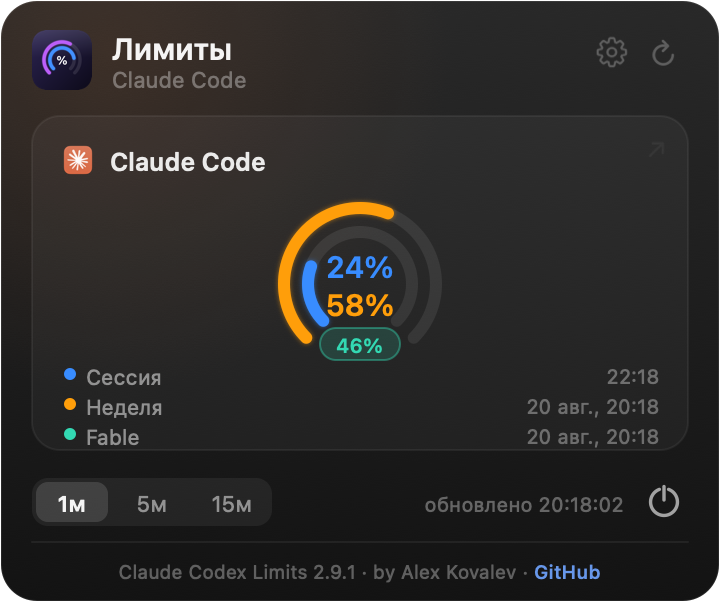
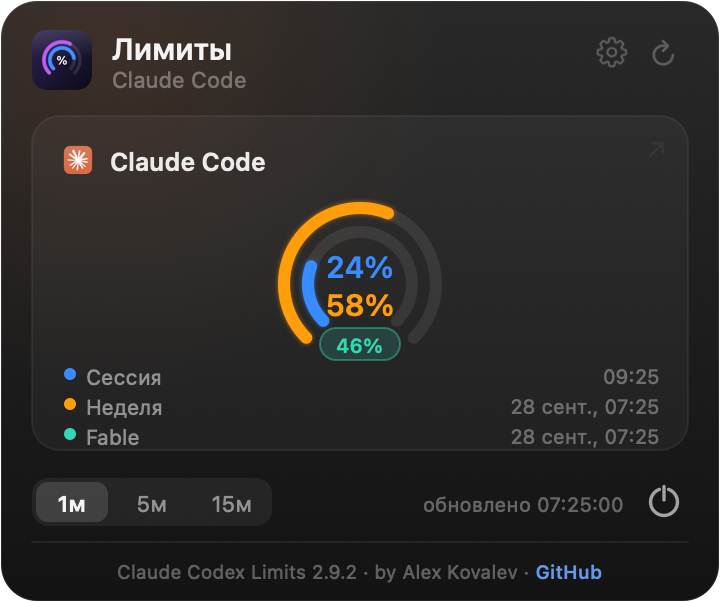
v2.9.2 — resize the open panel when refreshed data changes its height
The panel was sized once, in show(), for the data present at click time —
and opening it triggers a refresh. When that refresh added or dropped the
per-model row (cards ±15pt) update() only redrew, so the taller content ran
past the window's bottom edge and the footer line got clipped. update() now
compares the needed height with the frame and calls resizeToContent().

diff --git a/Sources/LimitsMonitor.swift b/Sources/LimitsMonitor.swift
@@ -889,7 +889,7 @@ func panelMainHeight(_ claude: LimitData, _ codex: LimitData) -> CGFloat {
     PANEL_H + scopedRowExtra(claude, codex)
 }
 enum PanelMode { case main, settings, whatsnew, claudeFix }
-let APP_VERSION = "2.9.1"
+let APP_VERSION = "2.9.2"
 let APP_AUTHOR = "Alex Kovalev"
 let REPO_URL = "https://github.com/ArrivaRUS/claude-codex-limits"
 let CLAUDE_INSTALL_CMD = "curl -fsSL https://claude.ai/install.sh | bash"
@@ -2001,7 +2001,16 @@ final class PanelController {
 
     func update(claude: LimitData, codex: LimitData, interval: TimeInterval, updated: Date?) {
         view.claude = claude; view.codex = codex; view.interval = interval; view.updated = updated
-        if panel.isVisible { view.needsDisplay = true }
+        guard panel.isVisible else { return }
+        // Opening the panel triggers a refresh, and that refresh can add or drop the per-model
+        // row — i.e. change the height the content needs. The frame was sized for the data at
+        // click time, so without this the taller layout draws past the bottom edge and the
+        // footer line gets clipped. Resize whenever the needed height no longer matches.
+        if view.mode == .main, abs(panel.frame.height - panelMainHeight(claude, codex)) > 0.5 {
+            view.resizeToContent()
+        } else {
+            view.needsDisplay = true
+        }
     }
 
     func show(below button: NSStatusBarButton) {

diff --git a/README.md b/README.md
@@ -3,7 +3,7 @@
 **English** · [Русский](README.ru.md)
 
 <p align="center">
-  <img src="docs/banner.png?v=291" alt="Claude Codex Limits — macOS menu bar usage limits" width="820">
+  <img src="docs/banner.png?v=292" alt="Claude Codex Limits — macOS menu bar usage limits" width="820">
 </p>
 
 A tiny macOS menu-bar app that shows how much of your **Claude Code** and **Codex**
@@ -14,9 +14,9 @@ window), with the product's icon to its left — and you decide which two number
 Click the tray icon for a detailed popover.
 
 <p align="center">
-  <img src="docs/menubar-dark.png?v=291" width="180" alt="Menu bar (dark)">
+  <img src="docs/menubar-dark.png?v=292" width="180" alt="Menu bar (dark)">
   &nbsp;&nbsp;
-  <img src="docs/panel-en.png?v=291" width="320" alt="Popover">
+  <img src="docs/panel-en.png?v=292" width="320" alt="Popover">
 </p>
 
 ## Features
@@ -40,16 +40,16 @@ Click the tray icon for a detailed popover.
 - **Launch at login** — a toggle right in Settings; no Dock icon, no dependencies beyond what macOS already ships.
 
 <p align="center">
-  <img src="docs/menubar-single.png?v=291" width="140" alt="Single product (menu bar)">
+  <img src="docs/menubar-single.png?v=292" width="140" alt="Single product (menu bar)">
   &nbsp;&nbsp;
-  <img src="docs/panel-single-en.png?v=291" width="300" alt="Single product (popover)">
+  <img src="docs/panel-single-en.png?v=292" width="300" alt="Single product (popover)">
 </p>
 <p align="center"><sub>With only one subscription set up, the tray and popover collapse to a single row / card.</sub></p>
 
-<p align="center"><img src="docs/settings-en.png?v=291" width="250" alt="Settings screen"></p>
+<p align="center"><img src="docs/settings-en.png?v=292" width="250" alt="Settings screen"></p>
 <p align="center"><sub>Settings (⚙): interface language · launch at login · which two numbers the menu bar shows · a sound per event (resets &amp; limit‑reached) · built‑in updates.</sub></p>
 
-<p align="center"><img src="docs/whatsnew-en.png?v=291" width="320" alt="What's new screen"></p>
+<p align="center"><img src="docs/whatsnew-en.png?v=292" width="320" alt="What's new screen"></p>
 <p align="center"><sub>“What’s new”: release notes for every version you skipped, then update straight from there.</sub></p>
 
 ## How it works
@@ -89,7 +89,7 @@ you turn it on in Settings.
 
 ### 2. From the .dmg
 
-1. Download `ClaudeCodexLimits-2.9.1.dmg` from the [Releases](../../releases) page.
+1. Download `ClaudeCodexLimits-2.9.2.dmg` from the [Releases](../../releases) page.
 2. Open it and drag **Claude Codex Limits** into **Applications**.
 3. Launch it. The build isn't notarized, so on **macOS Sequoia / Tahoe** the first
    launch is blocked. Do this once:
@@ -125,7 +125,7 @@ Requirements: macOS 13+, the Xcode command‑line tools (`swiftc`). No packages 
 ## Build a release
 
 ```bash
-./scripts/make-dmg.sh     # → dist/ClaudeCodexLimits-2.9.1.dmg
+./scripts/make-dmg.sh     # → dist/ClaudeCodexLimits-2.9.2.dmg
 ```
 
 ## Project layout
